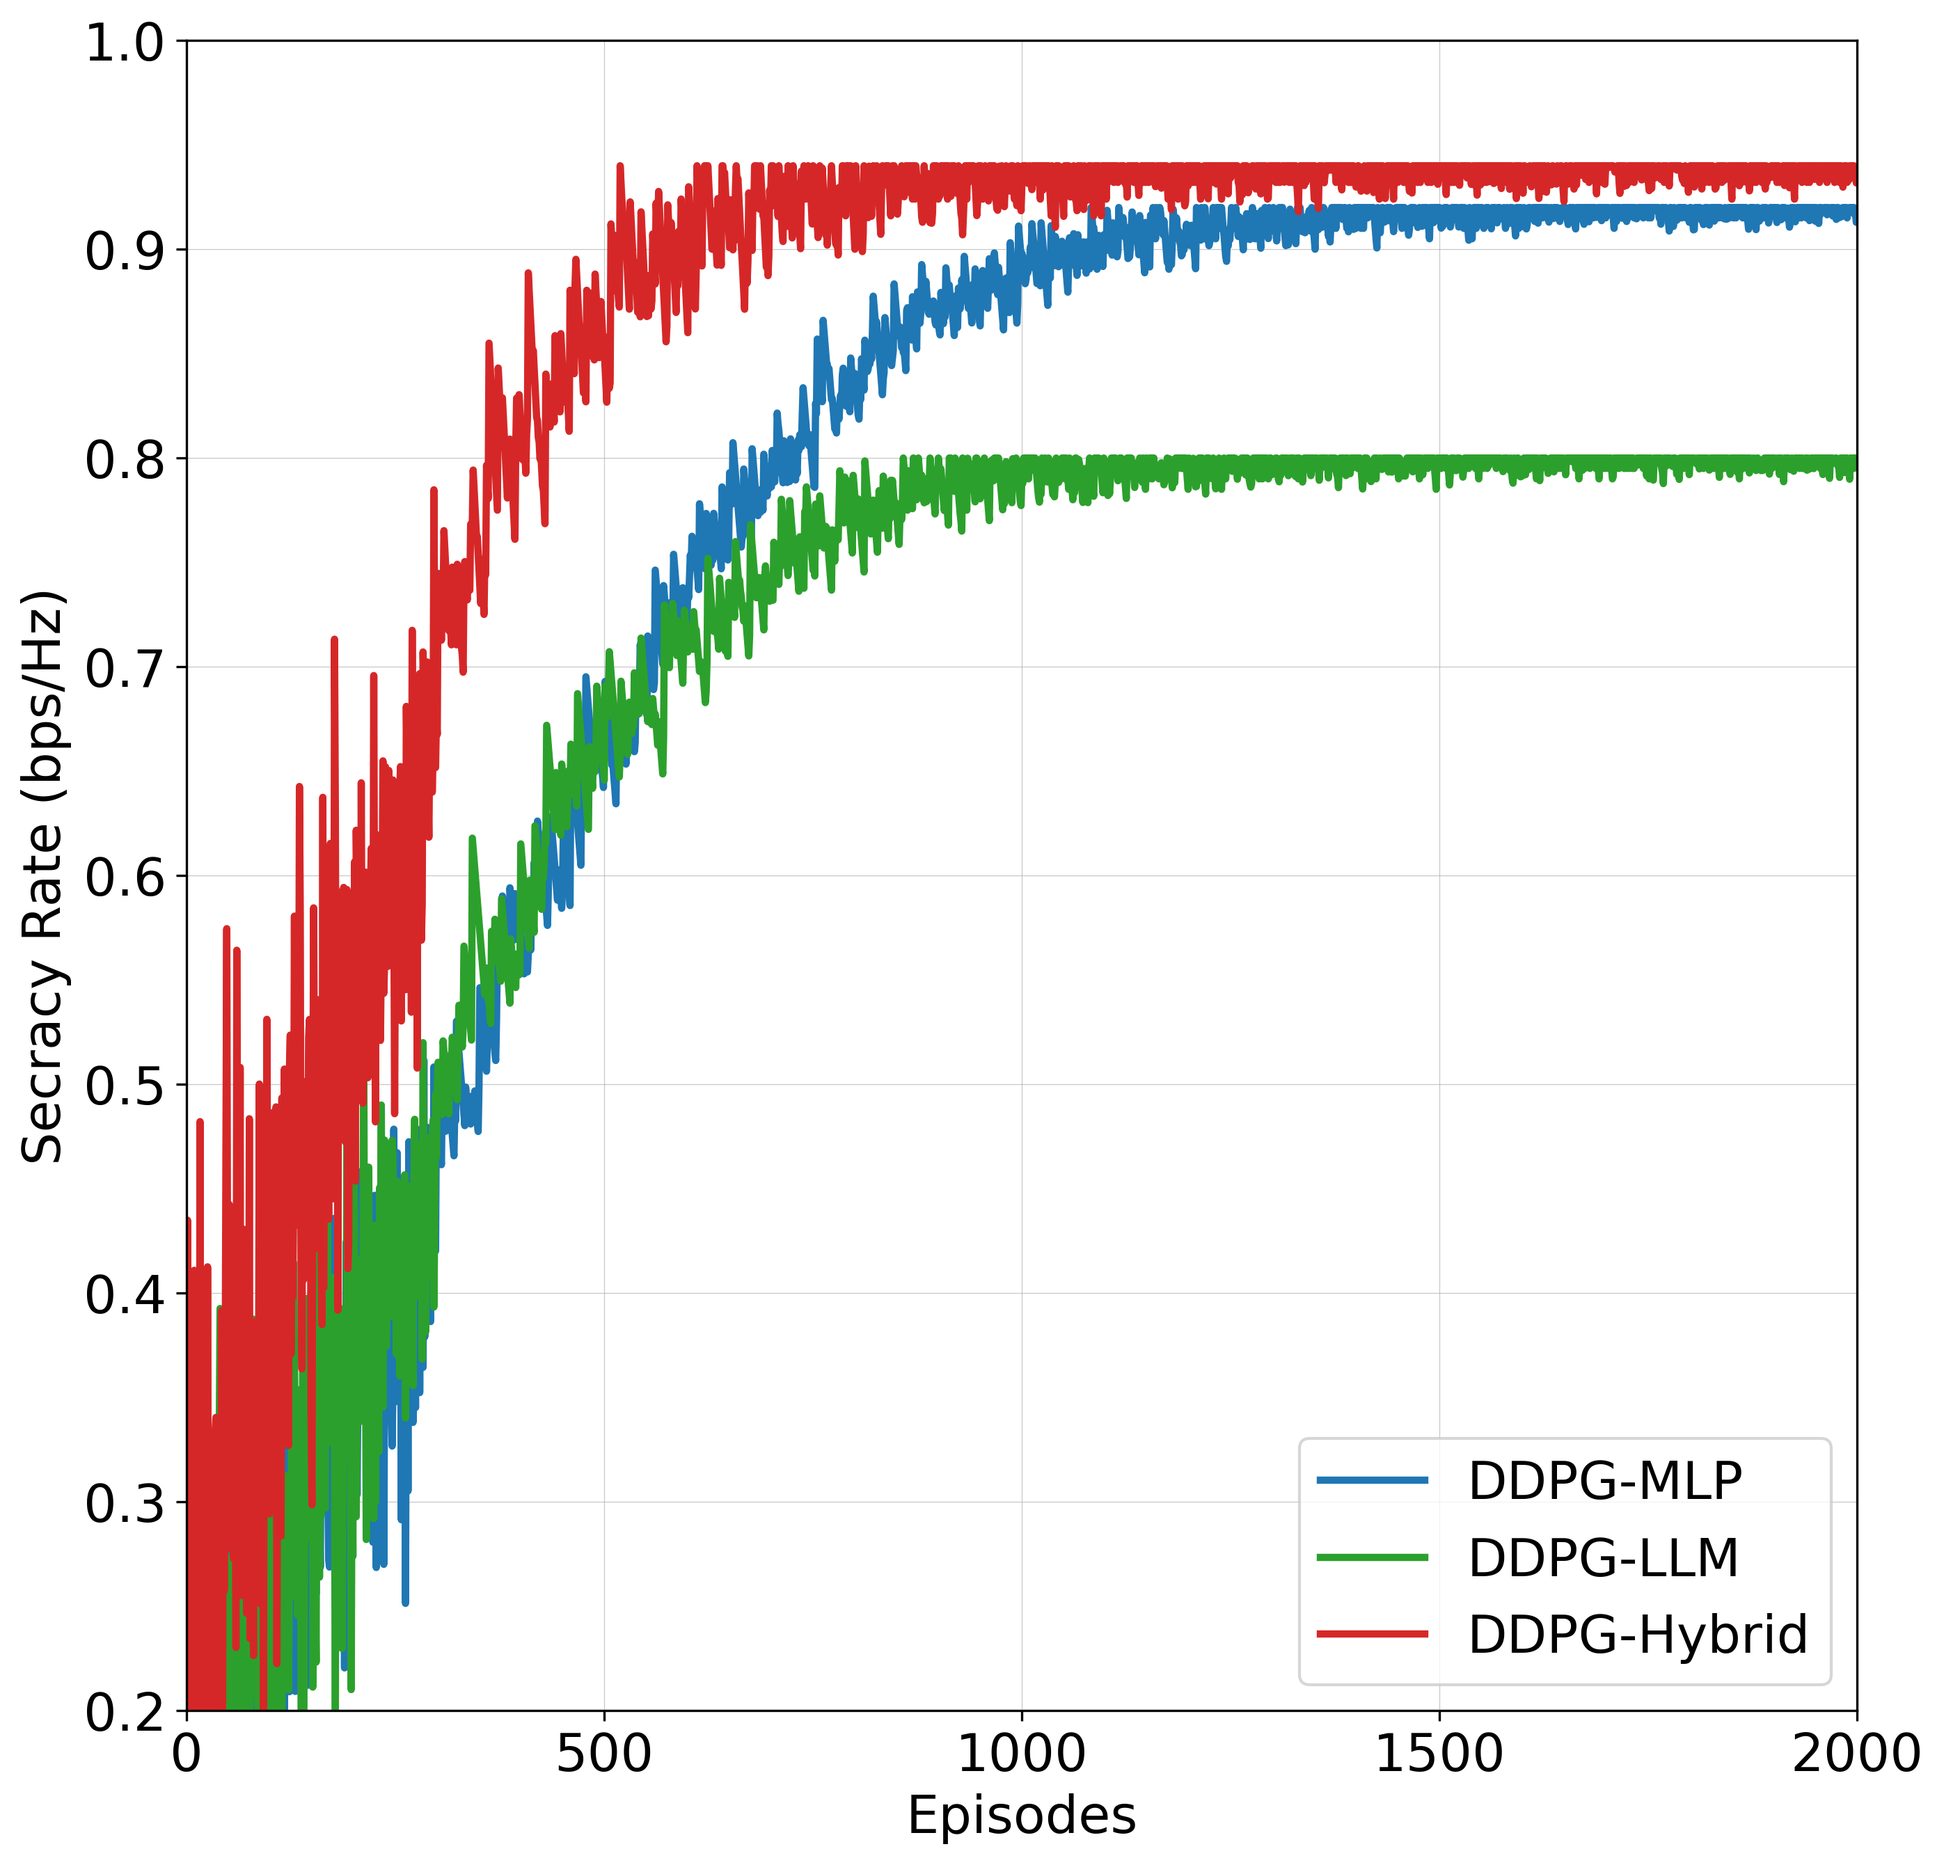
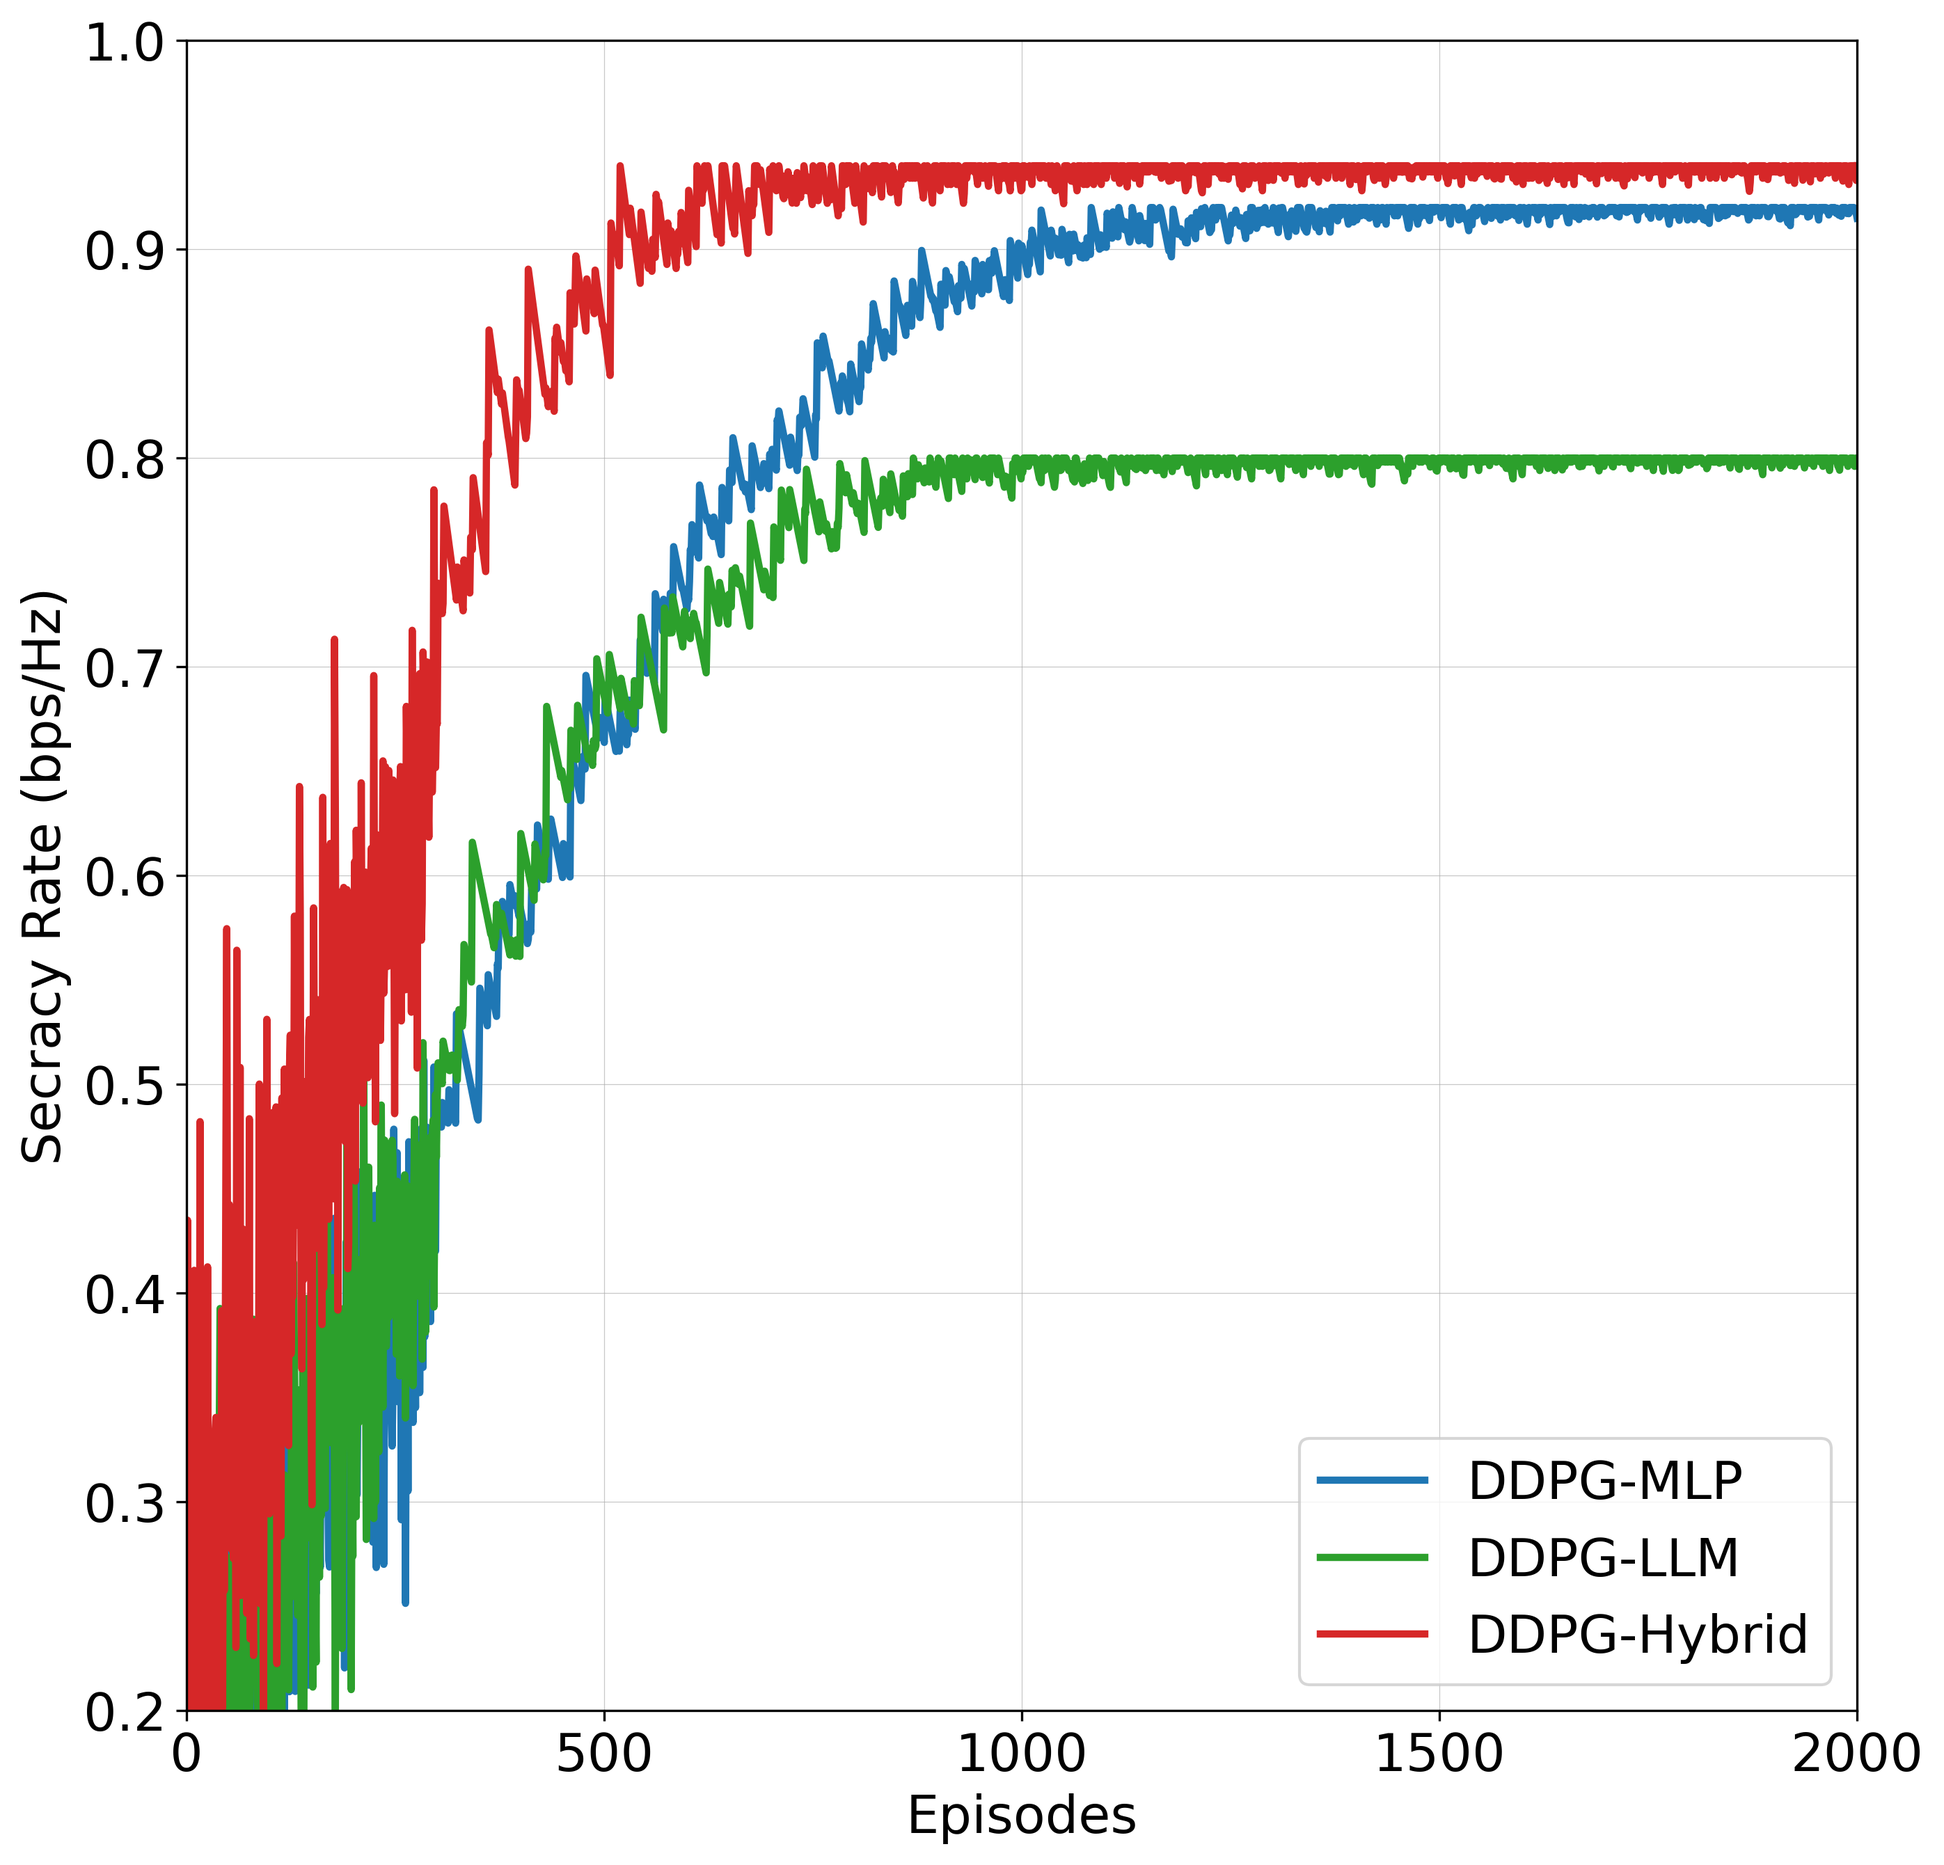
Convergence: realistic zigzag with moderate amplitude; longer periods; subtle variation; minimal drops for natural look.

Changed region(s): [[0.218, 0.0929, 0.9656, 0.6194], [0.7787, 0.2478, 0.9345, 0.2787]]

diff --git a/plot_convergence_final.py b/plot_convergence_final.py
@@ -114,7 +114,7 @@ def plot_comparison(save_path='plots/actor_comparison.png'):
         convergence_curve[0] = 0.2
         convergence_curve = np.clip(convergence_curve, 0.2, 1.0)
 
-        # Add visible zigzag pattern throughout the entire curve after initial chaos
+        # Add realistic zigzag pattern throughout the entire curve after initial chaos
         chaos_end = int((0.10 if name == 'Hybrid' else (0.125 if name == 'LLM' else 0.15)) * total_eps)
         zigzag_start = max(chaos_end, int(0.15 * total_eps))
         
@@ -123,50 +123,42 @@ def plot_comparison(save_path='plots/actor_comparison.png'):
             zigzag_len = len(zigzag_region)
             
             if name == 'Hybrid':
-                amp = 0.015  # Much larger amplitude for visible zigzag
-                periods = [3, 5, 8, 12]
-                weights = [1.0, 0.6, 0.4, 0.2]
+                amp = 0.008  # Realistic amplitude
+                periods = [8, 15, 25]
+                weights = [1.0, 0.4, 0.2]
             elif name == 'LLM':
-                amp = 0.012
-                periods = [4, 6, 10, 15]
-                weights = [1.0, 0.5, 0.3, 0.15]
+                amp = 0.007
+                periods = [10, 18, 30]
+                weights = [1.0, 0.3, 0.15]
             else:
-                amp = 0.010
-                periods = [5, 8, 12, 18]
-                weights = [1.0, 0.4, 0.25, 0.1]
+                amp = 0.006
+                periods = [12, 20, 35]
+                weights = [1.0, 0.25, 0.1]
             
-            # Create visible multi-frequency zigzag
+            # Create realistic multi-frequency zigzag
             zigzag = np.zeros(zigzag_len)
             for p, w in zip(periods, weights):
                 zigzag += w * np.sin(2 * np.pi * (zigzag_region / p))
             zigzag /= sum(weights)
             
-            # Add sawtooth pattern for sharp visible edges
-            sawtooth = np.zeros(zigzag_len)
-            for i in range(zigzag_len):
-                if i % 3 == 0:
-                    sawtooth[i] = 1.0
-                elif i % 3 == 1:
-                    sawtooth[i] = -0.5
-                else:
-                    sawtooth[i] = -0.3
+            # Add subtle random variation
+            jitter = np.random.normal(0, amp * 0.25, zigzag_len)
             
-            total_zigzag = amp * (0.7 * zigzag + 0.3 * sawtooth)
+            total_zigzag = amp * zigzag + jitter
             
-            # Apply zigzag with controlled up/down movement
+            # Apply realistic zigzag with minimal controlled movement
             prev_val = convergence_curve[zigzag_start-1] if zigzag_start > 0 else 0.2
             for i, idx in enumerate(zigzag_region):
                 base_val = convergence_curve[idx]
                 zigzag_val = total_zigzag[i]
                 
-                # Allow both up and down movement but prevent large drops
                 new_val = base_val + zigzag_val
                 
-                # For Hybrid, allow small controlled drops for visible zigzag
+                # Allow very small realistic drops
                 if name == 'Hybrid':
-                    max_drop = 0.008
+                    max_drop = 0.003  # Minimal drop for realism
                 else:
-                    max_drop = 0.005
+                    max_drop = 0.002
                 
                 # Prevent drops larger than max_drop from previous value
                 if new_val < prev_val - max_drop:
